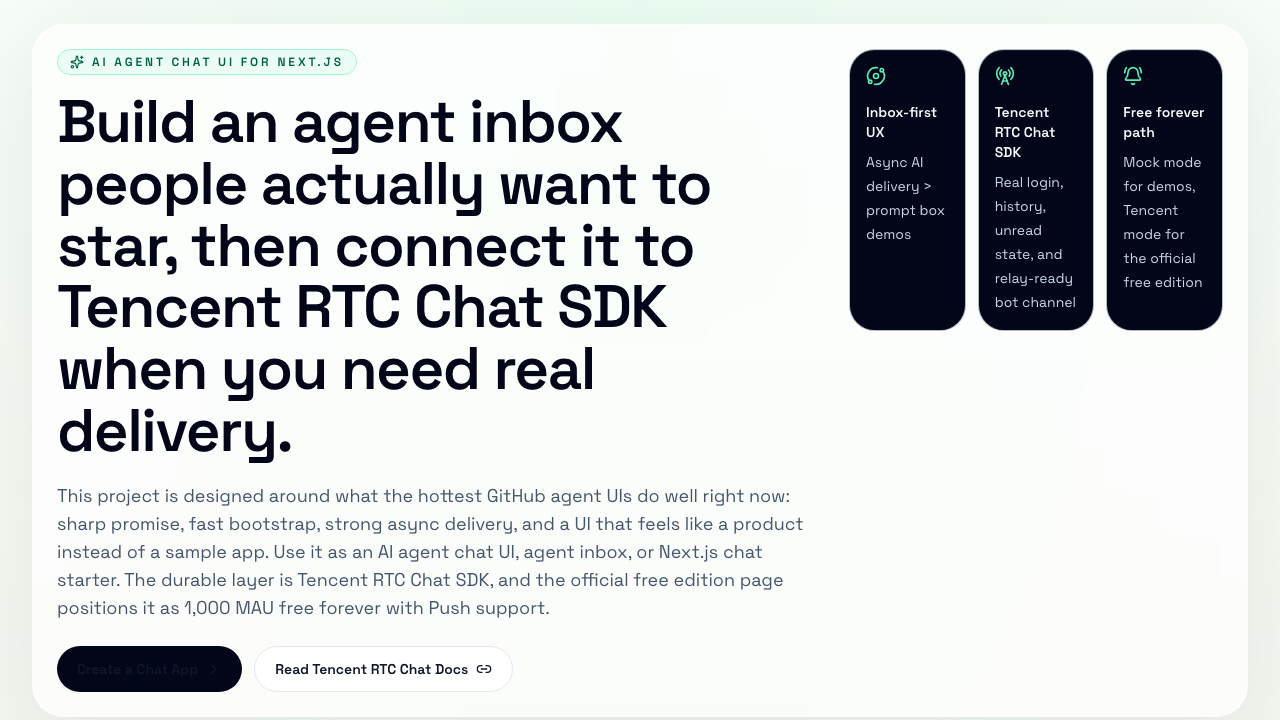
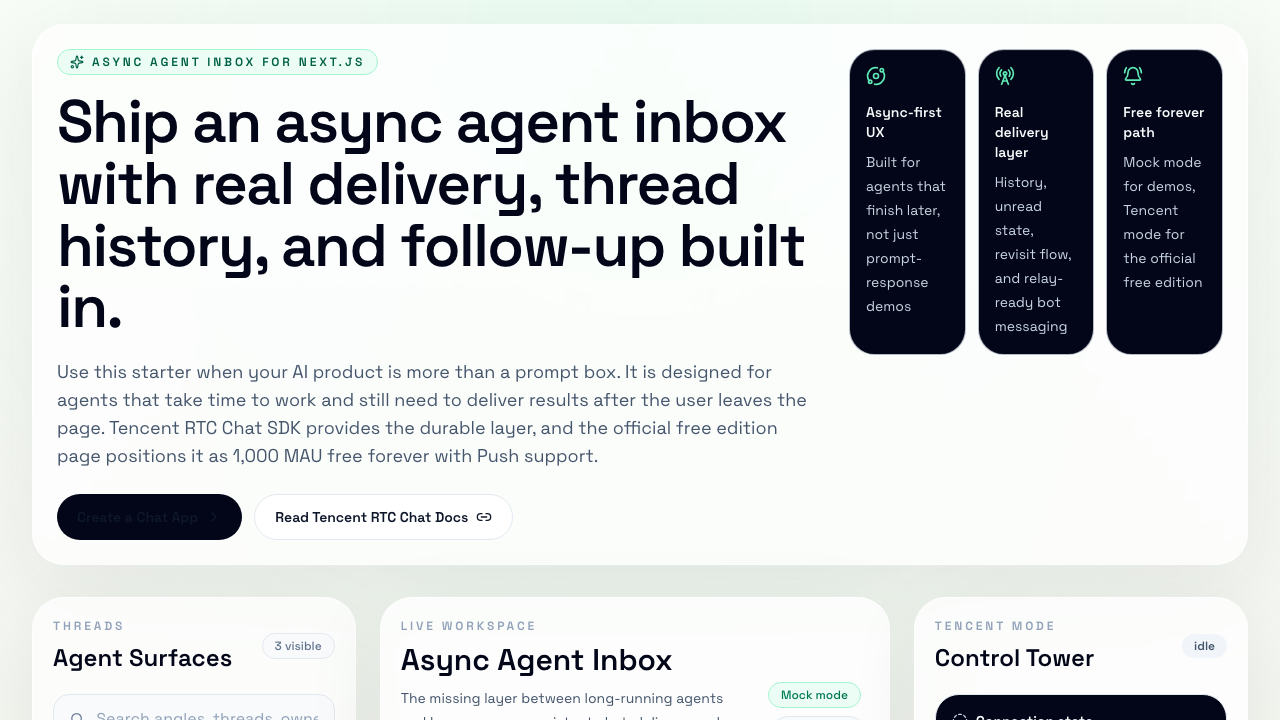
Refocus positioning on async agent inbox

diff --git a/src/components/agent-chat-ui.tsx b/src/components/agent-chat-ui.tsx
@@ -801,13 +801,13 @@ export function AgentChatUi() {
   const heroStats = [
     {
       icon: Orbit,
-      label: "Inbox-first UX",
-      value: "Async AI delivery > prompt box demos",
+      label: "Async-first UX",
+      value: "Built for agents that finish later, not just prompt-response demos",
     },
     {
       icon: RadioTower,
-      label: "Tencent RTC Chat SDK",
-      value: "Real login, history, unread state, and relay-ready bot channel",
+      label: "Real delivery layer",
+      value: "History, unread state, revisit flow, and relay-ready bot messaging",
     },
     {
       icon: BellRing,
@@ -824,19 +824,18 @@ export function AgentChatUi() {
             <div className="max-w-3xl">
               <div className="mb-4 inline-flex items-center gap-2 rounded-full border border-emerald-200 bg-emerald-50 px-3 py-1 text-xs font-semibold uppercase tracking-[0.24em] text-emerald-800">
                 <Sparkles className="h-3.5 w-3.5" />
-                AI Agent Chat UI for Next.js
+                Async Agent Inbox for Next.js
               </div>
               <h1 className="max-w-4xl font-[family-name:var(--font-space-grotesk)] text-4xl font-semibold leading-[1.03] tracking-tight text-slate-950 sm:text-5xl xl:text-6xl">
-                Build an agent inbox people actually want to star, then connect it to
-                Tencent RTC Chat SDK when you need real delivery.
+                Ship an async agent inbox with real delivery, thread history, and
+                follow-up built in.
               </h1>
               <p className="mt-5 max-w-3xl text-base leading-7 text-slate-600 sm:text-lg">
-                This project is designed around what the hottest GitHub agent UIs do
-                well right now: sharp promise, fast bootstrap, strong async delivery,
-                and a UI that feels like a product instead of a sample app. Use it as
-                an AI agent chat UI, agent inbox, or Next.js chat starter. The durable
-                layer is Tencent RTC Chat SDK, and the official free edition page
-                positions it as 1,000 MAU free forever with Push support.
+                Use this starter when your AI product is more than a prompt box. It is
+                designed for agents that take time to work and still need to deliver
+                results after the user leaves the page. Tencent RTC Chat SDK provides
+                the durable layer, and the official free edition page positions it as
+                1,000 MAU free forever with Push support.
               </p>
               <div className="mt-6 flex flex-wrap gap-3">
                 <a

diff --git a/src/app/layout.tsx b/src/app/layout.tsx
@@ -14,16 +14,16 @@ const ibmPlexMono = IBM_Plex_Mono({
 });
 
 export const metadata: Metadata = {
-  title: "Agent Chat UI | Next.js AI Agent Inbox with Tencent RTC Chat SDK",
+  title: "Async Agent Inbox for Next.js | Tencent RTC Chat SDK Demo",
   description:
-    "Open-source AI agent chat UI for Next.js built with Tencent RTC Chat SDK. Mock mode, real chat history, bot relay, and a free-forever path to production.",
+    "Open-source async agent inbox for Next.js. Built for long-running AI tasks with real delivery, history, unread state, and Tencent RTC Chat SDK integration.",
   keywords: [
-    "agent chat ui",
-    "ai chat ui",
+    "async agent inbox",
+    "agent inbox",
     "Tencent RTC Chat SDK",
-    "free chat api",
-    "Next.js chat example",
+    "persistent chat",
     "AI inbox",
+    "Next.js agent starter",
     "chat sdk",
   ],
 };

diff --git a/README.md b/README.md
@@ -7,7 +7,11 @@
 [![Free Forever](https://img.shields.io/badge/Free%20Edition-1%2C000%20MAU%20Free%20Forever-1f6feb)](https://trtc.io/free-chat-api)
 [![OpenAI Compatible](https://img.shields.io/badge/Model%20Layer-OpenAI%20Compatible-7c3aed)](#is-openai_api_key-required)
 
-Open-source **AI agent chat UI** and **agent inbox starter** for **Next.js**, built to connect with **Tencent RTC Chat SDK** when you need real message delivery, history, unread state, and bot relay.
+**The open-source async agent inbox for Next.js.**
+
+Use this repo when your AI product is not just a prompt box. It is for agents that take time to work, need persistent threads, and should still deliver results after the user leaves the page.
+
+Tencent RTC Chat SDK is the delivery layer: real message history, unread state, follow-up, and bot relay.
 
 This repo is designed to feel like the GitHub projects people actually star:
 
@@ -19,6 +23,18 @@ This repo is designed to feel like the GitHub projects people actually star:
 According to the official [Tencent RTC Chat free edition page](https://trtc.io/free-chat-api), Tencent RTC Chat SDK & API is positioned as **1,000 MAU free forever**, with full features and built-in Push support.
 
 ![Agent Chat UI screenshot](./public/screenshots/agent-chat-ui-home.png)
+
+## What This Repo Is
+
+- An inbox-style frontend for long-running AI tasks
+- A Next.js starter for products that need async delivery, thread history, and revisit-friendly UX
+- A Tencent RTC Chat SDK integration demo once you switch from `mock mode` to `Tencent mode`
+
+## What This Repo Is Not
+
+- Not a generic multi-model chat playground
+- Not an agent framework like LangGraph or OpenAI Agents
+- Not only a Tencent SDK sample with no product UX
 
 ## What You Get In 5 Minutes
 
@@ -39,6 +55,12 @@ Real products need a stronger loop:
 4. The result should still land in a real conversation thread later
 
 That is where Tencent RTC Chat SDK fits: identity, conversation history, unread state, message delivery, and follow-up.
+
+## Best Fit
+
+- AI copilots that finish work asynchronously
+- Support or operations agents that need real threads instead of temporary chat state
+- Agent products that need a cleaner path from local demo to production messaging
 
 ## Quickstart
 

diff --git a/README.zh-CN.md b/README.zh-CN.md
@@ -6,7 +6,11 @@
 [![Tencent RTC Chat SDK](https://img.shields.io/badge/Tencent%20RTC%20Chat%20SDK-Integrated-0ea56b)](https://trtc.io/free-chat-api)
 [![Free Forever](https://img.shields.io/badge/Free%20Edition-1%2C000%20MAU%20Free%20Forever-1f6feb)](https://trtc.io/free-chat-api)
 
-一个面向 **Next.js** 的开源 **AI agent chat UI / agent inbox starter**，在需要真实消息投递、历史消息、未读状态和 bot relay 时，可以直接接入 **Tencent RTC Chat SDK**。
+**一个面向 Next.js 的开源异步 agent inbox。**
+
+这个项目不是普通 prompt box，而是给“需要花时间执行任务的 AI agent”准备的前端。用户离开页面后，结果仍然应该回到真实会话线程里。
+
+**Tencent RTC Chat SDK** 在这里扮演的是交付层：真实历史消息、未读状态、后续跟进和 bot relay。
 
 它同时提供两条路径：
 
@@ -18,6 +22,18 @@
 根据官方 [Tencent RTC Chat 免费版页面](https://trtc.io/free-chat-api)，Tencent RTC Chat SDK & API 主打 **1,000 MAU 永久免费**，并包含完整功能与 Push 能力。
 
 ![Agent Chat UI 截图](./public/screenshots/agent-chat-ui-home.png)
+
+## 这个项目是什么
+
+- 一个面向长任务 AI 产品的 inbox 风格前端
+- 一个支持异步投递、线程历史、再次访问体验的 Next.js starter
+- 当你从 `mock mode` 切到 `Tencent mode` 后，它也是一个 Tencent RTC Chat SDK 集成 demo
+
+## 这个项目不是什么
+
+- 不是通用多模型聊天 playground
+- 不是 LangGraph / OpenAI Agents 这类 agent framework
+- 也不是只有 SDK 接入、没有产品体验的示例页
 
 ## 这个项目展示什么
 
